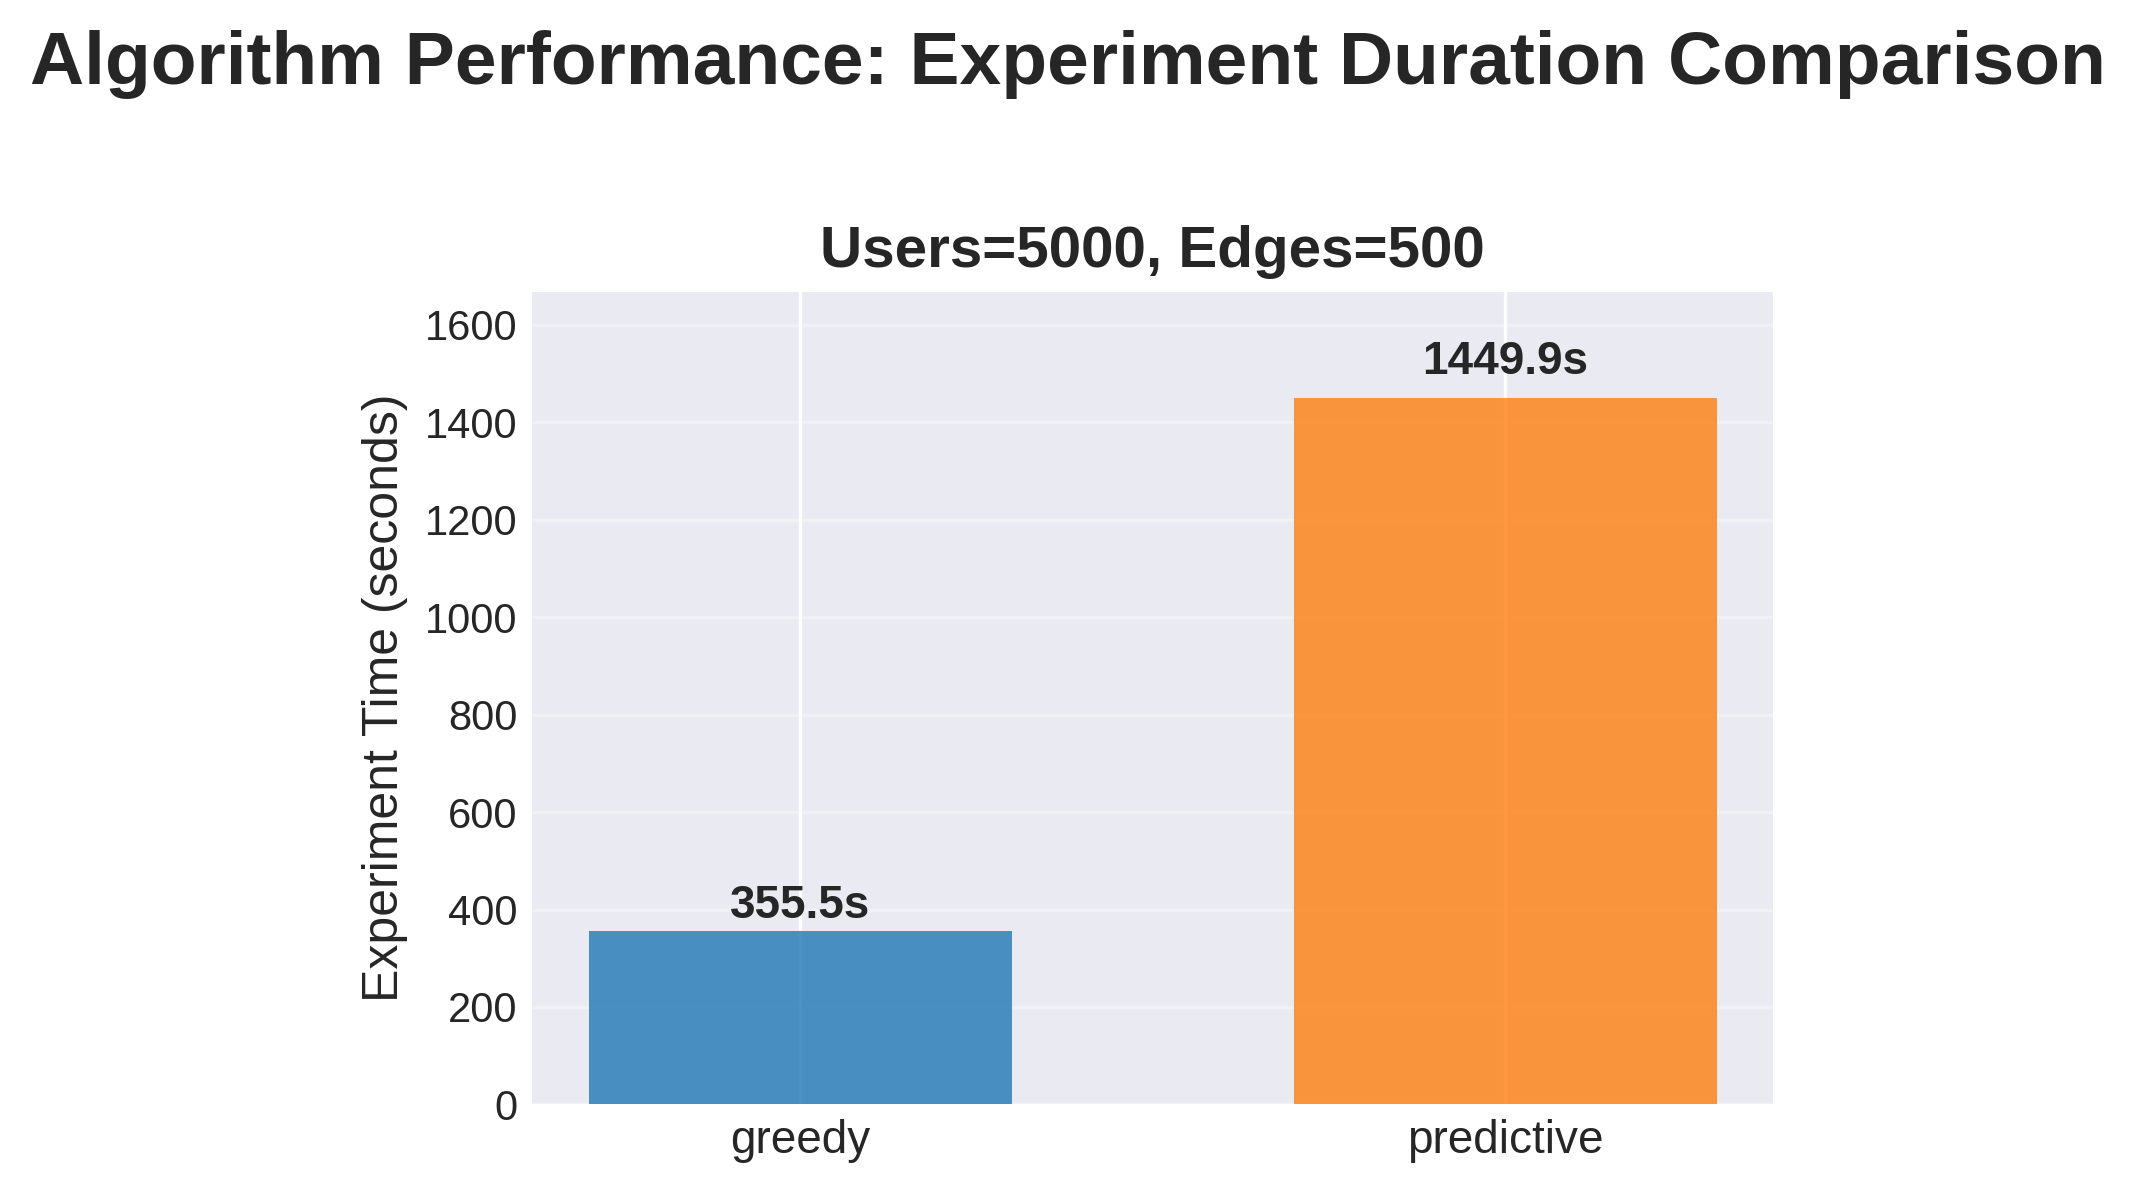
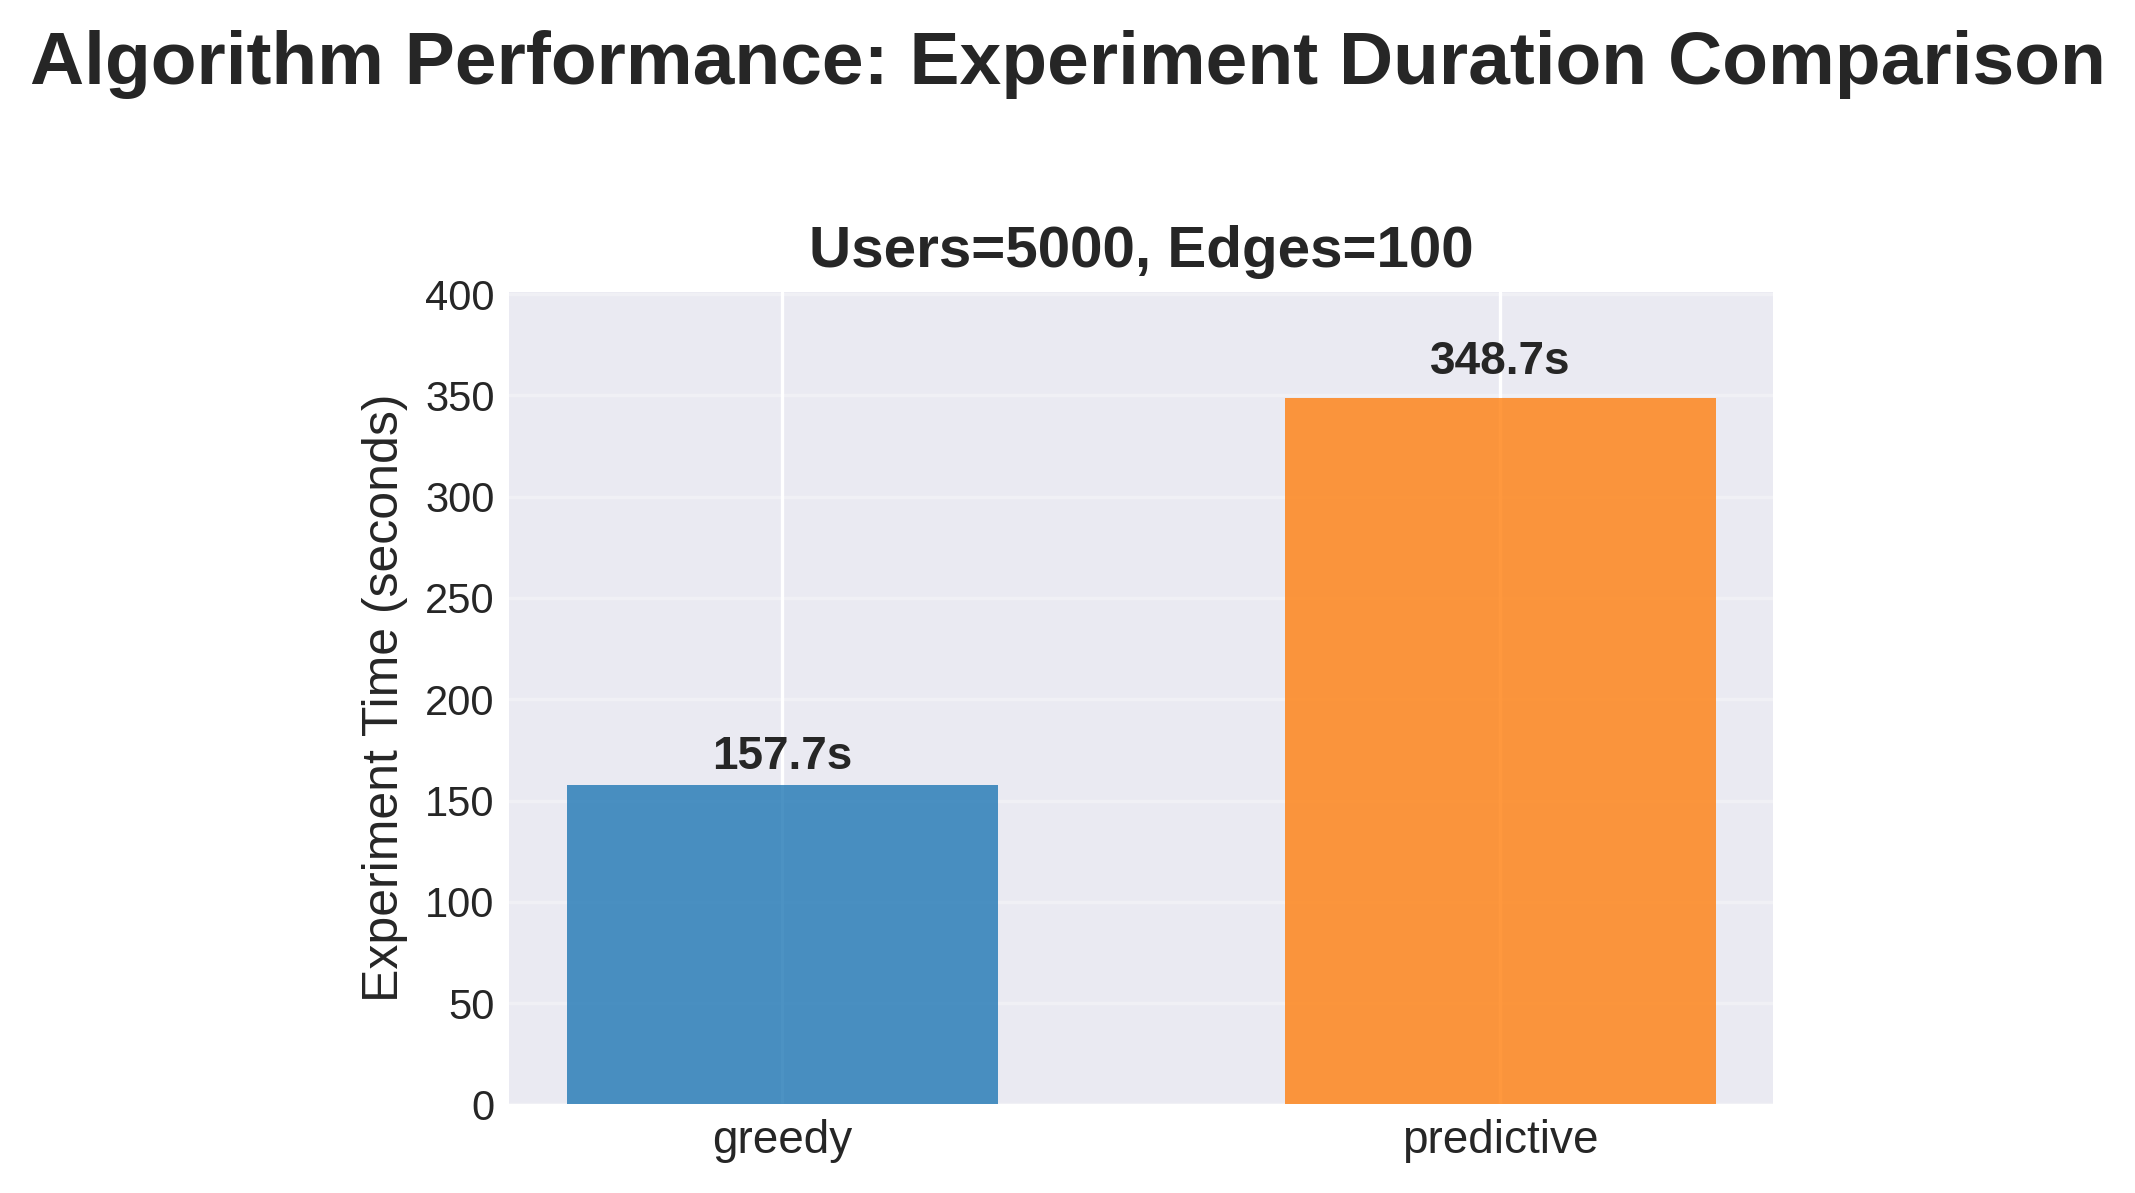
result 16/1

diff --git a/serverless-sim/run_experiments.py b/serverless-sim/run_experiments.py
@@ -545,7 +545,7 @@ class ExperimentRunner:
     
     def run_comprehensive_experiments(self, user_ranges = [], edge_ranges = [], algorithms = [], experiment_duration = 100):
         if not user_ranges:
-            user_ranges = [1000]  # 100 users
+            user_ranges = [5000]  # 100 users
         if not edge_ranges:
             edge_ranges = [100] 
         if not algorithms:

diff --git a/serverless-sim/plots/experiment_results_20260116_001129.csv/summary.md b/serverless-sim/plots/experiment_results_20260116_001129.csv/summary.md
@@ -1,0 +1,46 @@
+# Experiment Summary: `experiment_results_20251230_013903.csv`
+
+- Users: `1000`
+- Edge nodes: `100`
+
+## Metrics
+- `total_turnaround_time` is the SUM across all current users (ms).
+- Below we also report `avg_per_user = total_turnaround_time / num_users` (ms/user).
+
+### `greedy`
+
+**Total TAT (sum over users)**
+- mean: `556,902.2 ms (556.90 s)`
+- median: `519,375.0 ms (519.38 s)`
+- p95: `631,980.1 ms (631.98 s)`
+- p99: `1,481,850.3 ms (1,481.85 s)`
+- min/max: `150,450.3 ms (150.45 s)` / `1,481,850.3 ms (1,481.85 s)`
+
+**Avg per user (ms/user)**
+- mean: `556.902 ms`
+- median: `519.375 ms`
+- p95: `631.980 ms`
+- p99: `1,481.9 ms (1.48 s)`
+- min/max: `150.450 ms` / `1,481.9 ms (1.48 s)`
+
+### `predictive`
+
+**Total TAT (sum over users)**
+- mean: `552,517.6 ms (552.52 s)`
+- median: `503,476.9 ms (503.48 s)`
+- p95: `955,916.0 ms (955.92 s)`
+- p99: `1,482,454.0 ms (1,482.45 s)`
+- min/max: `150,450.4 ms (150.45 s)` / `1,482,454.8 ms (1,482.45 s)`
+
+**Avg per user (ms/user)**
+- mean: `552.518 ms`
+- median: `503.477 ms`
+- p95: `955.916 ms`
+- p99: `1,482.5 ms (1.48 s)`
+- min/max: `150.450 ms` / `1,482.5 ms (1.48 s)`
+
+## Comparison (predictive vs greedy)
+- Mean total TAT delta: `-0.79%` (predictive vs greedy)
+- Mean cold-start time delta: `-4.17%` (predictive vs greedy)
+- Mean cold-start count delta: `-5.22%` (predictive vs greedy)
+